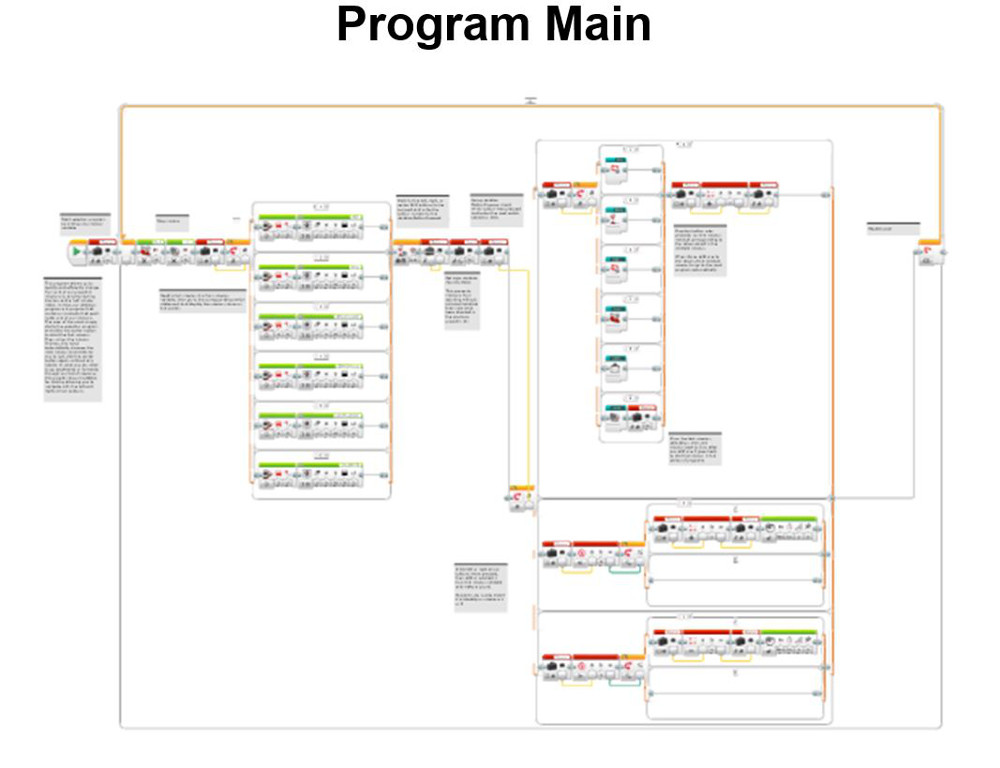
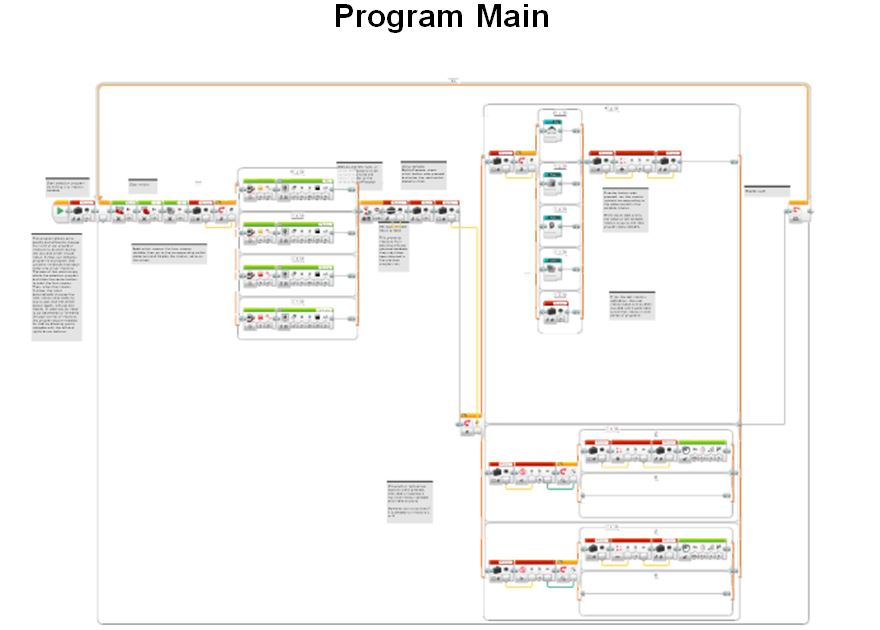
programing

Changed region(s): [[0.0307, 0.1206, 0.9511, 0.9952], [0.3375, 0.0, 0.675, 0.0603]]

diff --git a/programming.html b/programming.html
@@ -156,7 +156,7 @@
 		etc., as well as for entire missions.  The use of subroutines allows us to re-use
 		programming code and enjoy the benefits of an efficient mission selection program. 
 		This diagram below illustrates the extent to which Ctrl-Z re-uses programming code.</p>
-		<img src="images/robot/high.jpg"></img>
+		<img src="images/robot/hierachy.jpg"></img>
 		<br>
 		<br>
 		<h1>MyBlock Examples</h1>
